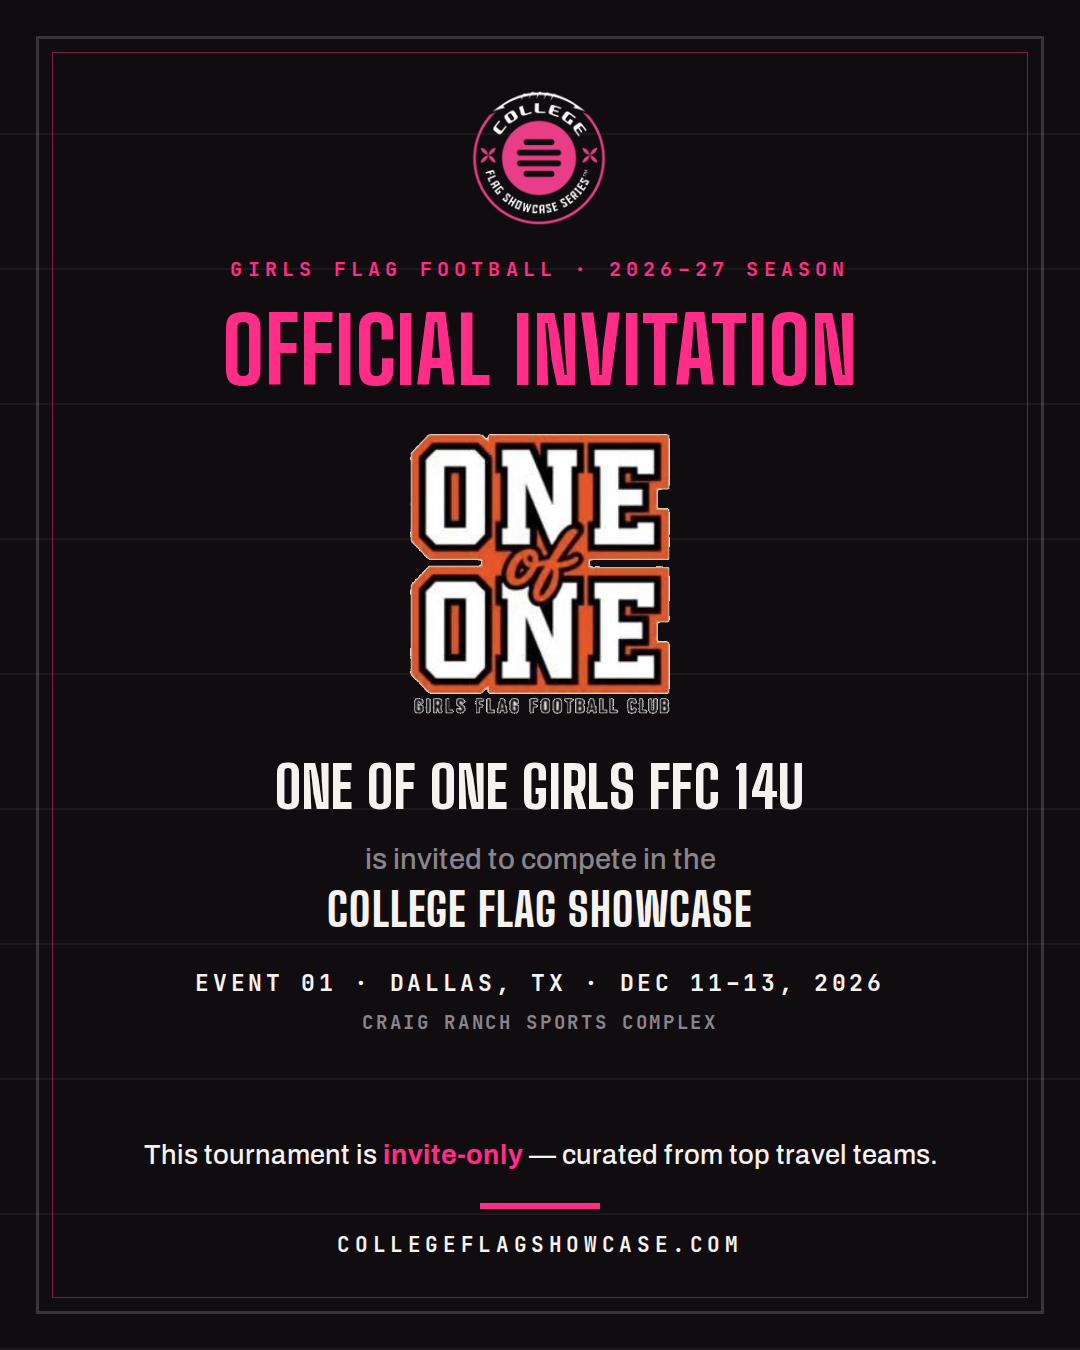
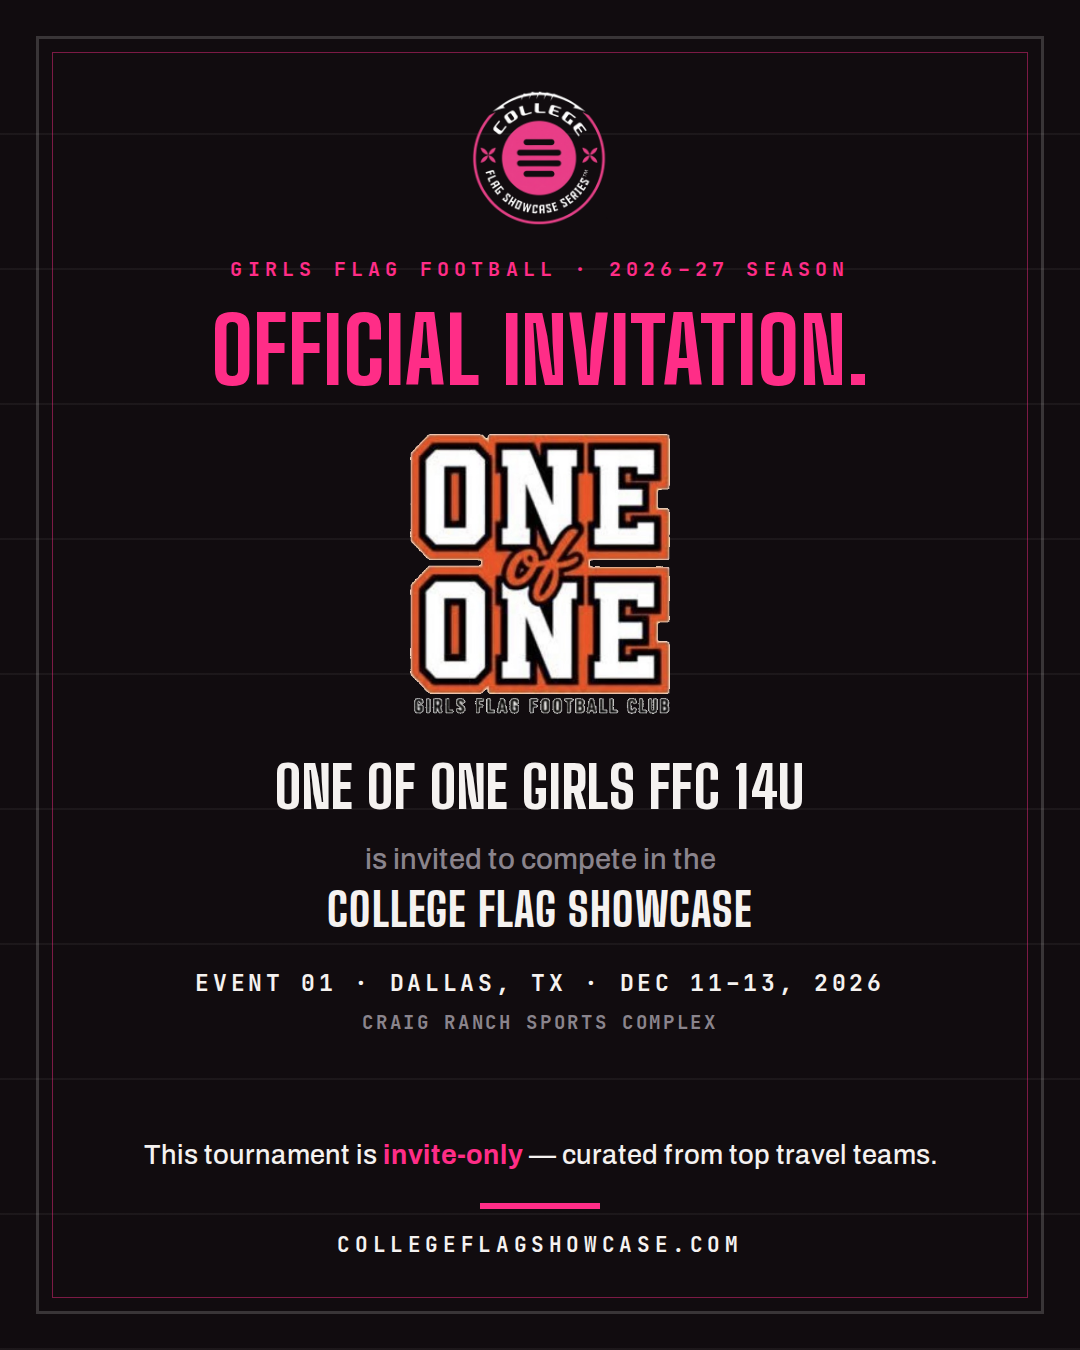
Invite title: period restored — Official Invitation.
Claude-Session: https://claude.ai/code/session_019V32boShoBmRrwWenCPJFc

Changed region(s): [[0.1833, 0.2178, 0.7944, 0.3111]]

diff --git a/collateral/invite-team-official.html b/collateral/invite-team-official.html
@@ -69,7 +69,7 @@
   <div class="inner">
     <img class="cfs-logo" src="../public/logo.png" alt="College Flag Showcase Series" />
     <p class="kicker">Girls Flag Football &middot; 2026&ndash;27 Season</p>
-    <h1 class="invite-title">Official Invitation</h1>
+    <h1 class="invite-title">Official Invitation.</h1>
     <img class="org-logo" src="{{LOGO}}" alt="{{NAME}}" />
     <h2 class="org-name">{{NAME}}</h2>
     <p class="invited-line">is invited to compete in the</p>
